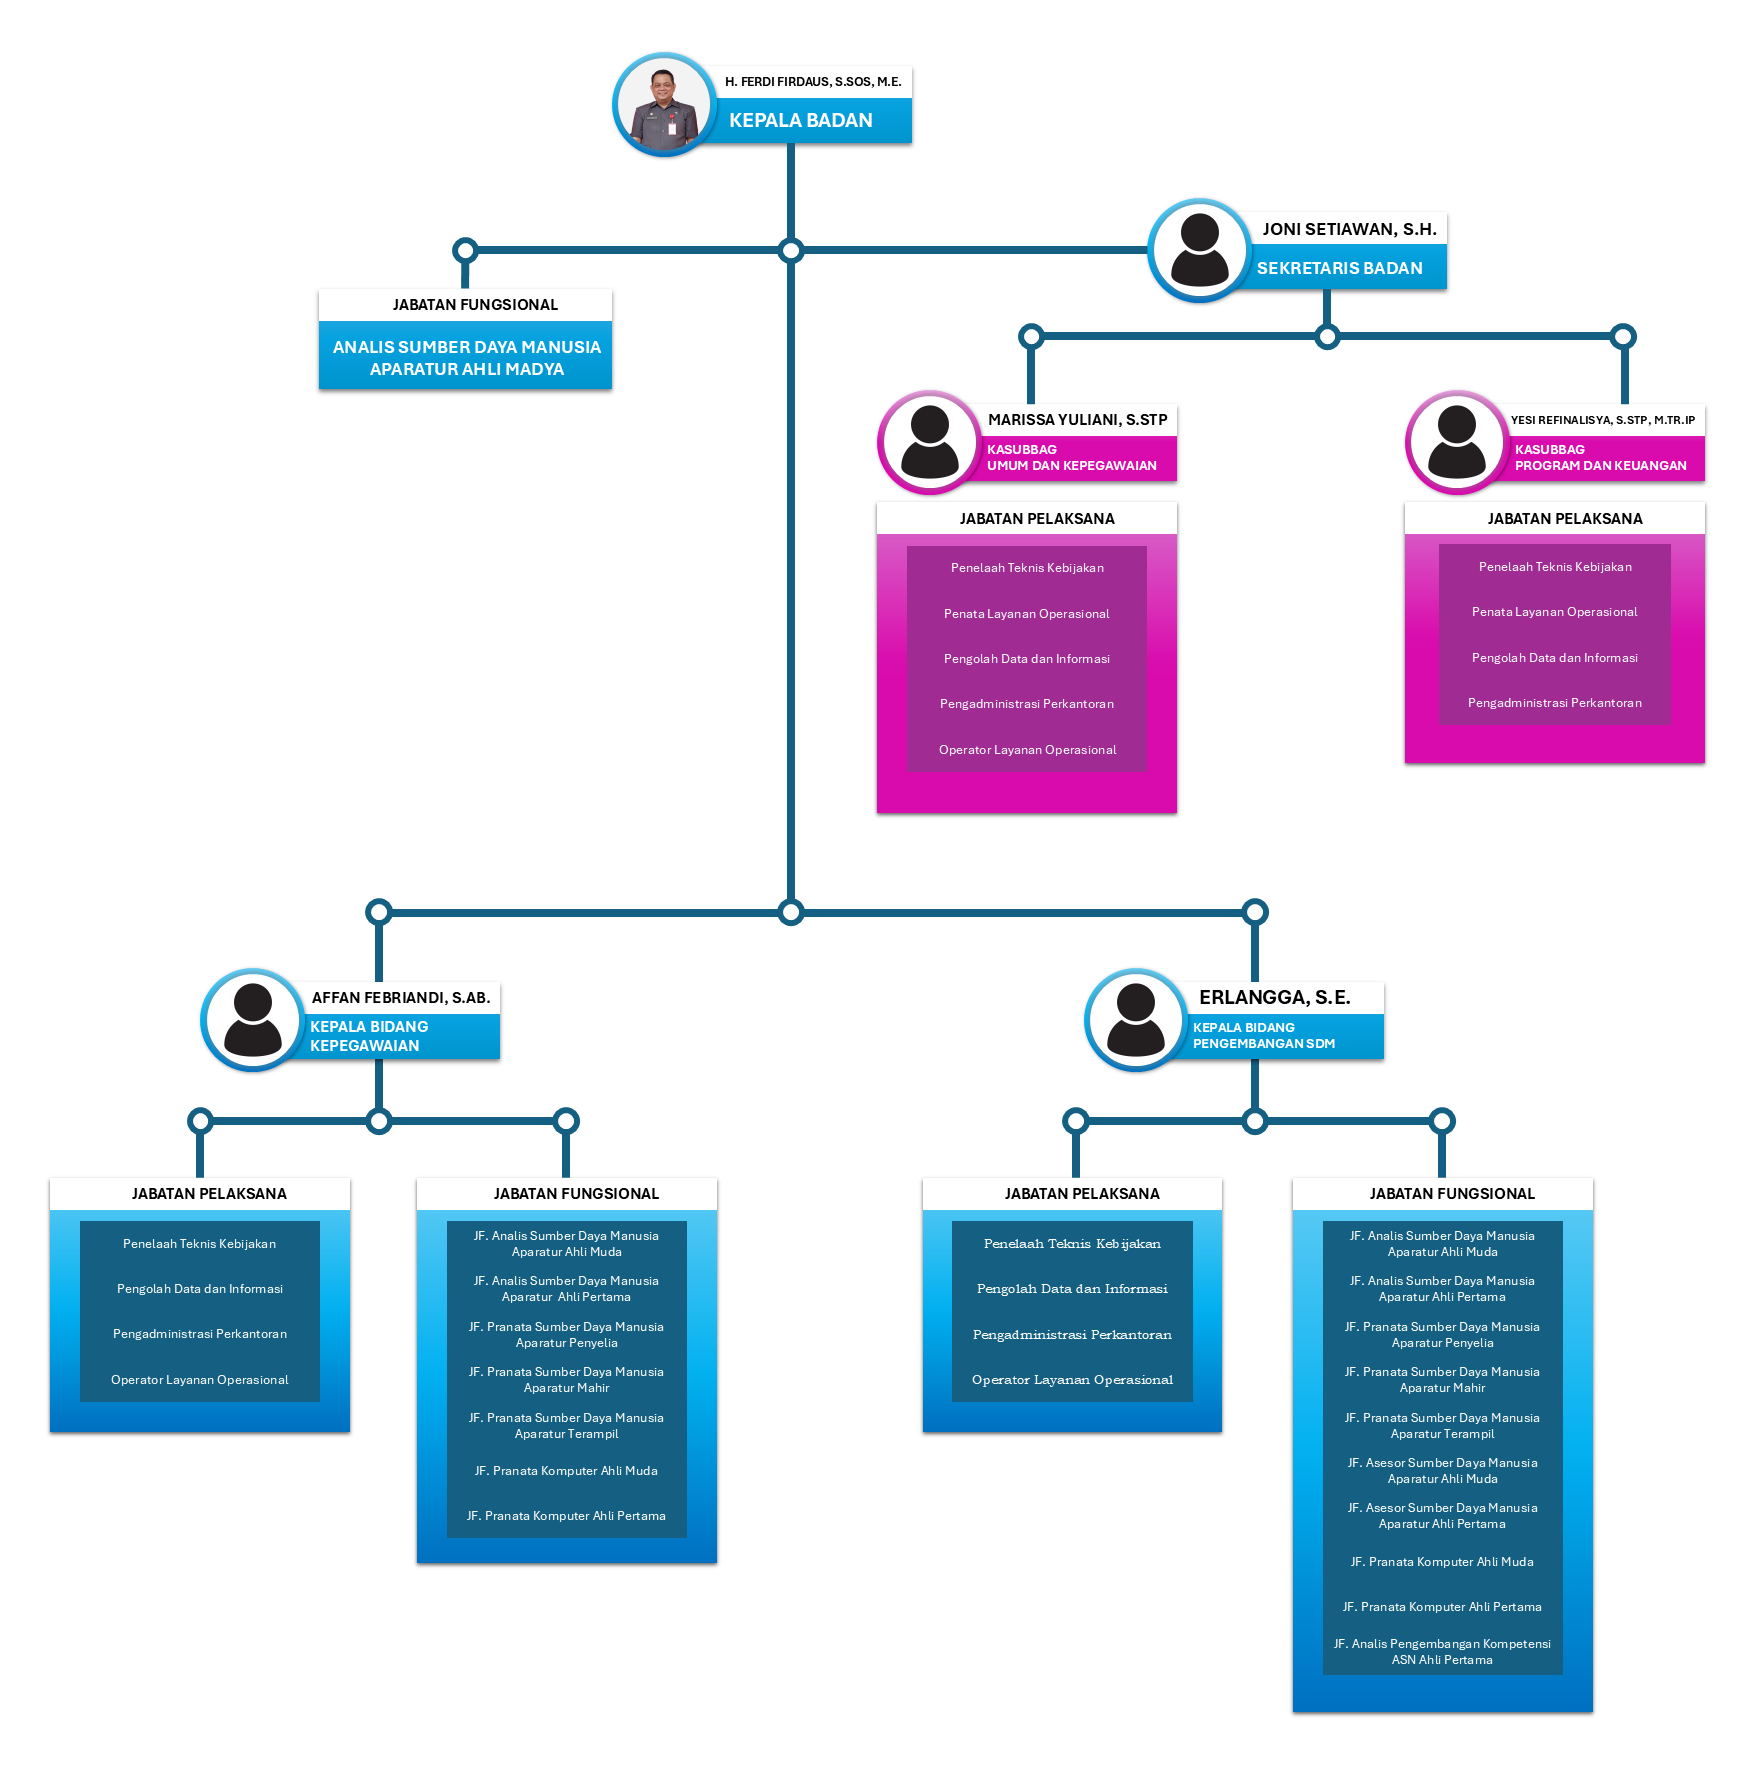
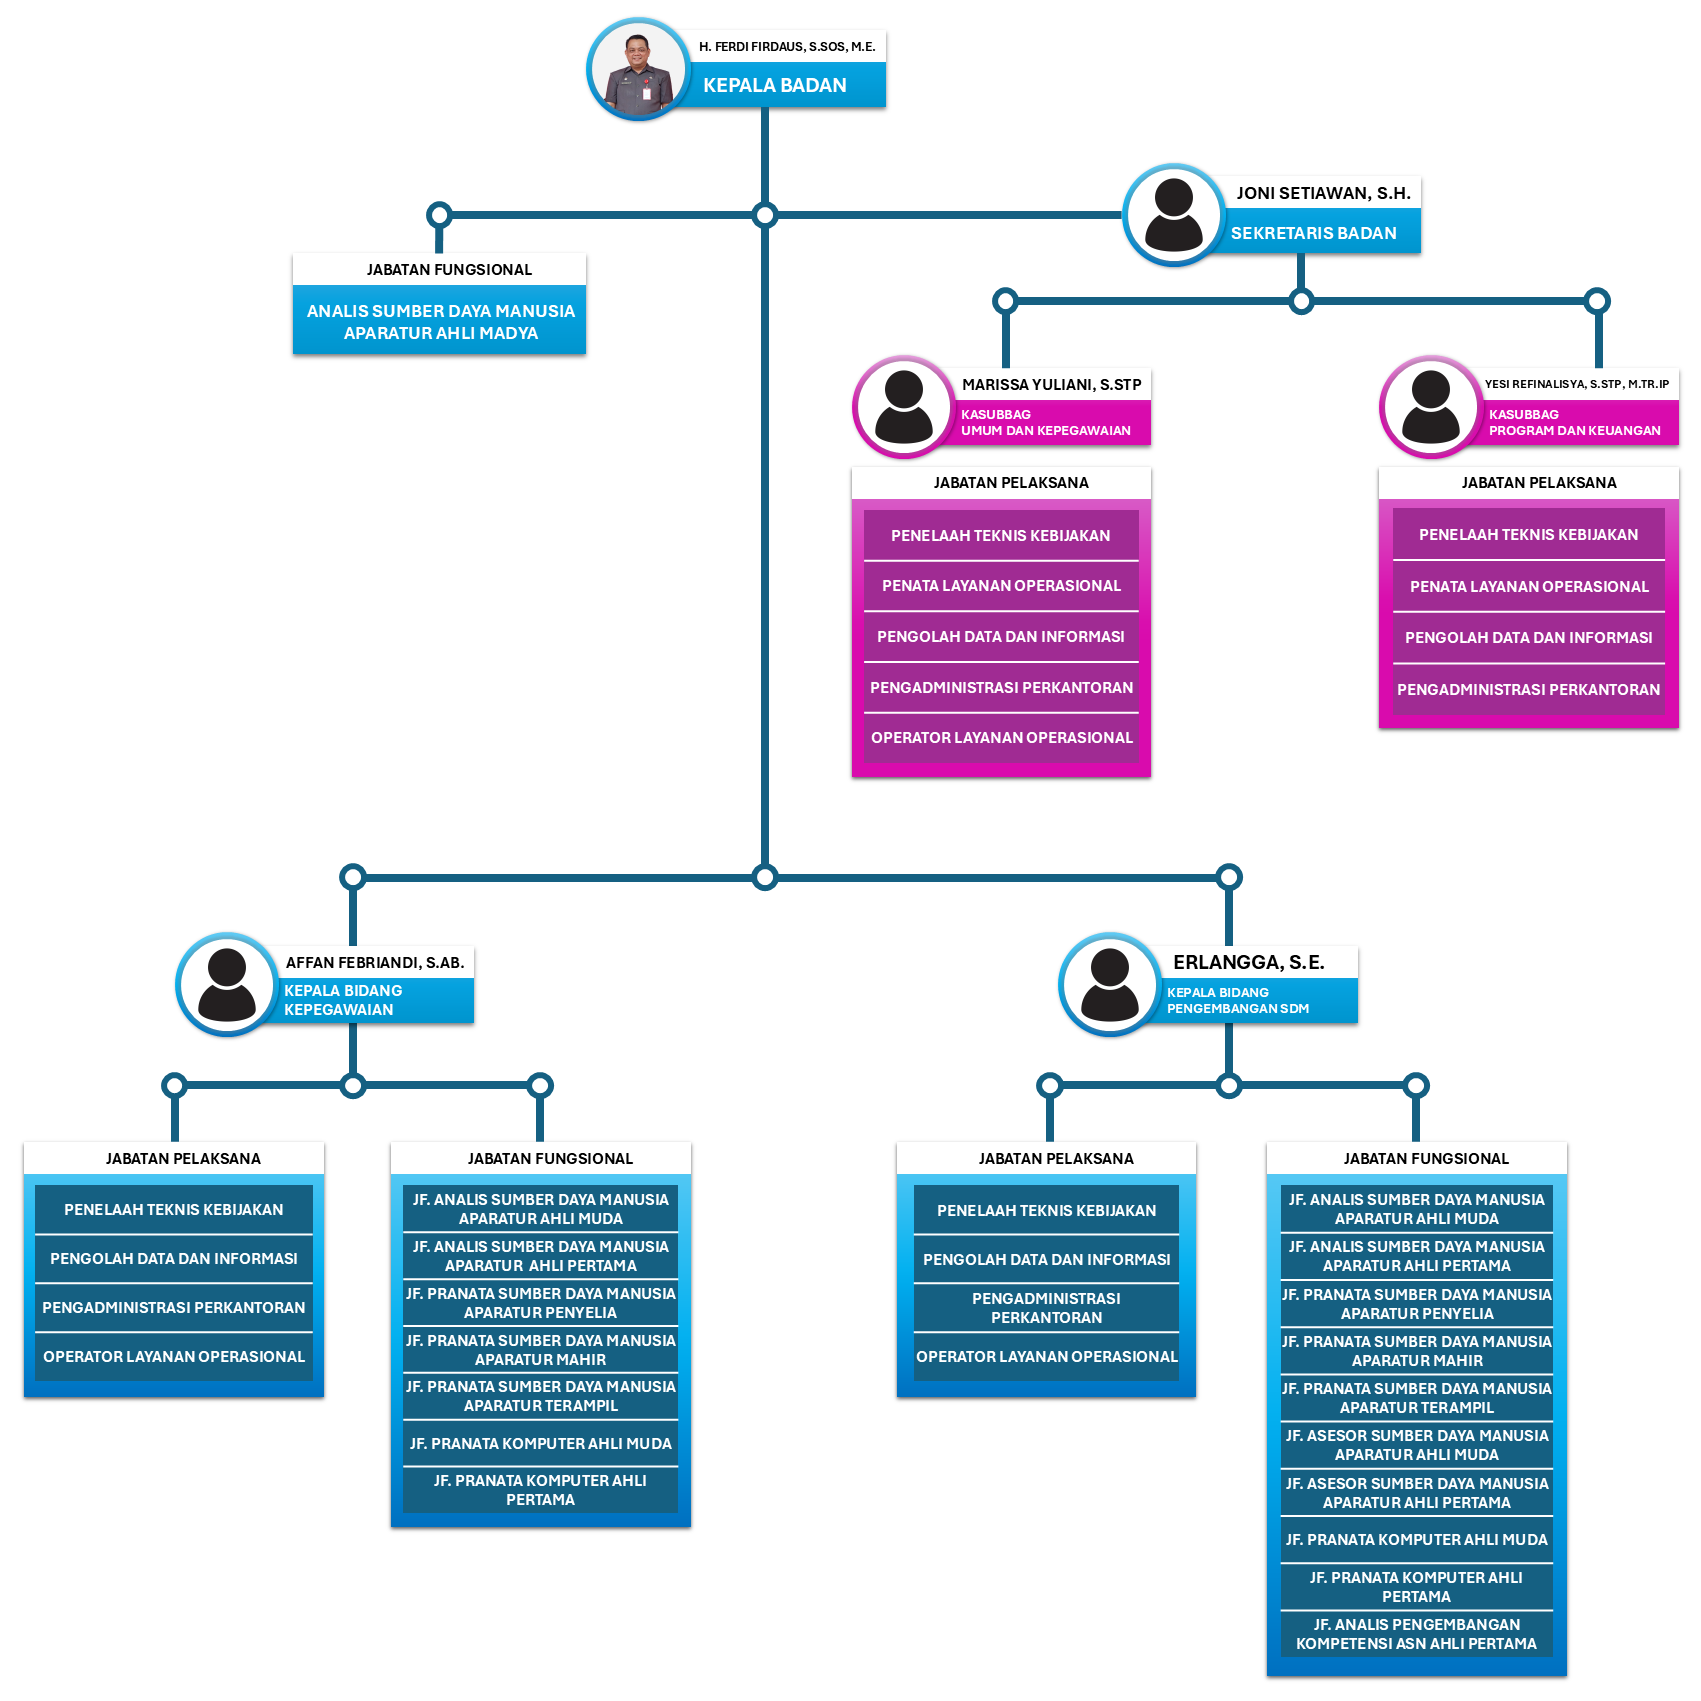
Update color scheme and fix typo in profil.html
Adjusted background colors in index.css and profil.css for a more consistent color scheme. Fixed a typo in profil.html ('penataan iri' to 'penataan diri'). Updated StrukturOrganisasi.png image.

Changed region(s): [[0.0, 0.0, 0.9971, 0.9971]]

diff --git a/profil.html b/profil.html
@@ -128,7 +128,7 @@
 	<p>Kelembagaan Badan Kepegawaian Daerah sendiri mulai di sebut untuk pertama kalinya dalam Undang-Undang Nomor 43 Tahun 1999 tentang Perubahan Atas Undang-Undang Nomor 8 Tahun 1974 tentang Pokok-Pokok Kepegawaian, Pasal 34A yang menegaskan: <b>"Untuk kelancaran pelaksanaan manajemen Pegawai Negeri Sipil Daerah dibentuk Badan Kepegawaian Daerah".</b></p>
 	<p>Selanjutnya untuk melaksanakan pembentukan lembaga Badan Kepegawaian Daerah diterbitkan Keputusan Presiden Nomor 159 Tahun 2000 tentang Pedoman Pembentukan Badan Kepegawaian Daerah. </p>
 	<p>Sejalan dengan hal tersebut telah dilaksanakan penataan organisasi perangkat daerah di Jajaran Pemerintah Kabupaten Merangin yang menempatkan fungsi manajemen kepegawaian yang semula dilaksanakan oleh Bagian Kepegawaian pada Sekretariat Daerah, dialihkan kepada lembaga tersendiri yang melaksanakan fungsi manajemen kepegawaian, yaitu Badan Kepegawaian Daerah (Selanjutnya disebut BKD). Oleh karena itu pada tahun 2002 dengan Peraturan Daerah Nomor 05 Tahun 2002 dibentuklah BKD Kabupaten Merangin sebagai salah satu lembaga perangkat daerah Kabupaten Merangin, yang menempati kantor Dinas Tata Kota lama di <b>Jalan Sultan Hasanuddin No. 02 Bangko.</b></p>
-	<p>Pengisian jabatan-jabatan pada BKD Kabupaten Merangin diawali pada tanggal 06 Januari 2003, yaitu dengan dilantiknya <b>Bapak Drs. Sumardi</b>, sebagai Kepala BKD Kabupaten Merangin yang pertama. Momentum inilah yang kemudian menjadi pertimbangan bahwa tanggal 06 Januari setiap tahunnya diperingati sebagai Hari Ulang Tahun BKD Kabupaten Merangin. Sebagai lembaga baru yang mengemban amanat pada pengelolaan manajemen kepegawaian daerah, BKD menata diri dengan melakukan penataan iri baik dari segi sistem, personil maupun pelayanannya dengan mengacu visi dan misinya yang telah ditetapkan dan telah dijabarkan dalam program-program kerjanya. Berdasarkan penjelasan di atas, maka perlu adanya media penyalur informasi tentang pengelolaan manajemen kepegawaian daerah, termasuk salah satunya diwujudkan dalam website ini, untuk disampaikan kepada stakeholder kepegawaian daerah.</p>
+	<p>Pengisian jabatan-jabatan pada BKD Kabupaten Merangin diawali pada tanggal 06 Januari 2003, yaitu dengan dilantiknya <b>Bapak Drs. Sumardi</b>, sebagai Kepala BKD Kabupaten Merangin yang pertama. Momentum inilah yang kemudian menjadi pertimbangan bahwa tanggal 06 Januari setiap tahunnya diperingati sebagai Hari Ulang Tahun BKD Kabupaten Merangin. Sebagai lembaga baru yang mengemban amanat pada pengelolaan manajemen kepegawaian daerah, BKD menata diri dengan melakukan penataan diri baik dari segi sistem, personil maupun pelayanannya dengan mengacu visi dan misinya yang telah ditetapkan dan telah dijabarkan dalam program-program kerjanya. Berdasarkan penjelasan di atas, maka perlu adanya media penyalur informasi tentang pengelolaan manajemen kepegawaian daerah, termasuk salah satunya diwujudkan dalam website ini, untuk disampaikan kepada stakeholder kepegawaian daerah.</p>
 	
 </div>
 	

diff --git a/index.css b/index.css
@@ -38,7 +38,7 @@ body {
 .topnav {
   position: sticky;
   top: 0;
-  background-color: #0099B8;
+  background-color: #0077b6;
   height: 65px;
   box-shadow: 0px 2px 10px 0px black;
   font-family: Trebuchet;
@@ -56,7 +56,7 @@ body {
 .navRight {
 	padding-top: 0px;
 	padding-bottom: 0px;
-	background-color: #0099B8;
+	background-color: #0077b6;
 	box-shadow: 0px 2px 10px 0px black;
 }
 .navRight a {
@@ -274,7 +274,7 @@ body {
 	overflow: hidden;
 	float: left;
 	padding: 10px;
-	background-color: #019FA5;
+	background-color: #0096c7;
 	color: white;
 	height: 260px;
 	font-family: Raleway-Medium;
@@ -290,7 +290,7 @@ body {
 .second {
  	width: 35%;
 	text-align: left;
-	background-color: #01B3BA;
+	background-color: #00b4d8;
 }
 .second img{
 	width: 40px;
@@ -299,7 +299,7 @@ body {
 
 .third {
   width: 20%;
-  background-color: #019FA5;
+  background-color: #0096c7;
 }
 .third img {
 	width: 40px;
@@ -309,7 +309,7 @@ body {
 
 .fourth{
 	width: 22.5%;
-	background-color: #01B3BA;
+	background-color: #00b4d8;
 	padding-bottom: 20px;
 	padding-top: 10px;
 }

diff --git a/profil.css b/profil.css
@@ -38,7 +38,7 @@ body {
 .topnav {
   position: sticky;
   top: 0;
-  background-color: #0099B8;
+  background-color: #006d77;
   height: 65px;
   box-shadow: 0px 2px 10px 0px black;
   font-family: Trebuchet;
@@ -383,7 +383,6 @@ body {
 	  font-size: 40px;
 	}
 }
-
 /* ============================================ TUPOKSI ==============================*/
 .tuPoksi {
 	background-color: beige;
